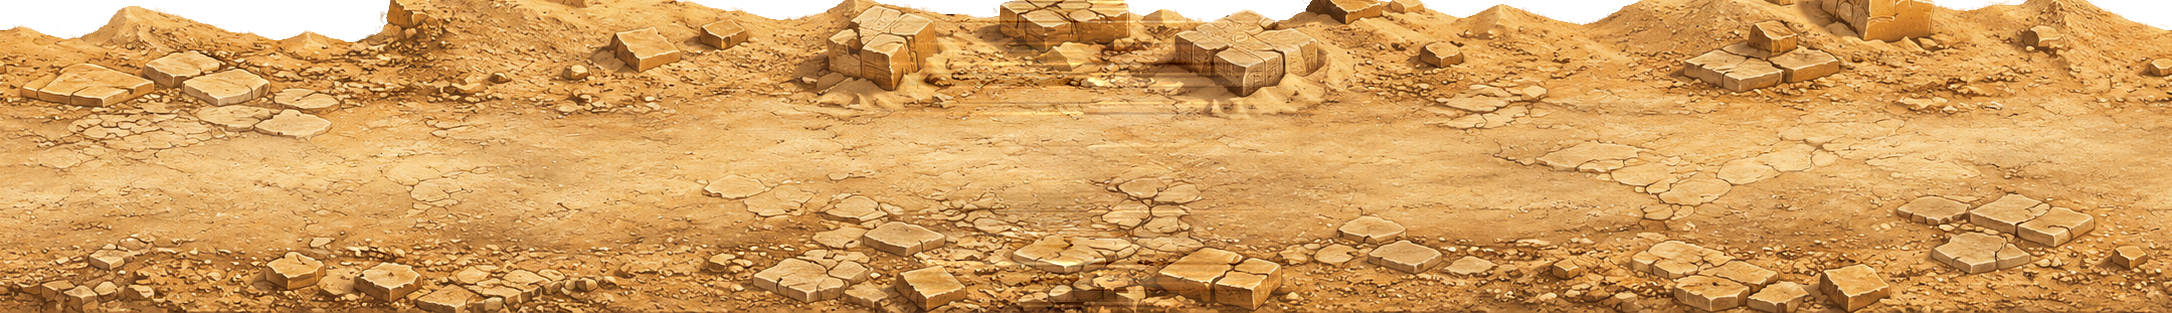
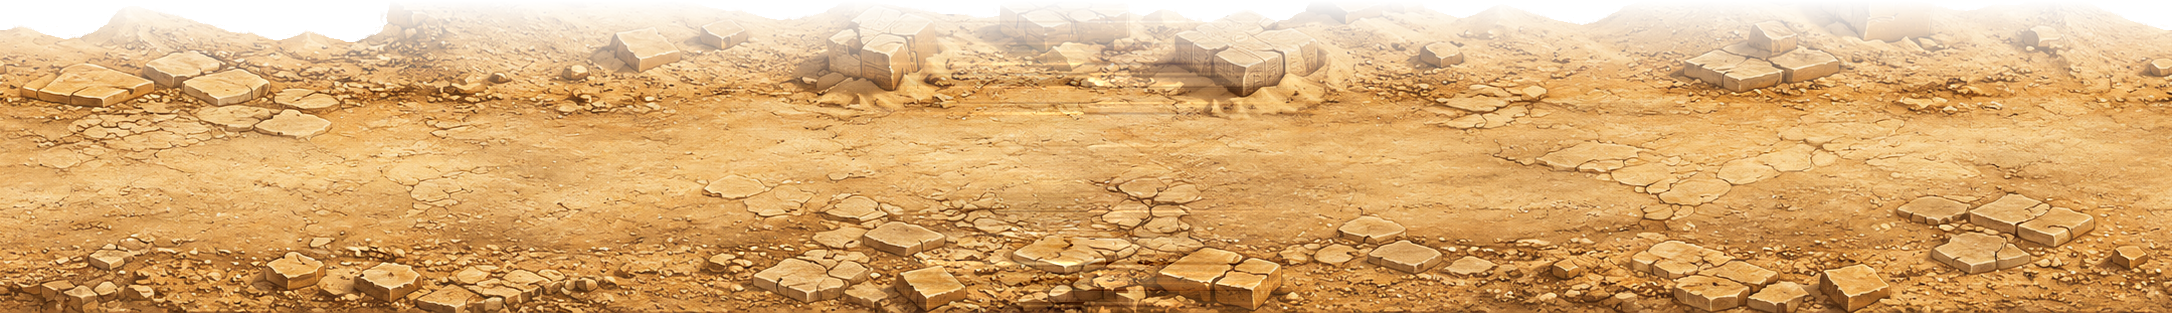
Shorten desert path and feather its top to kill the ledge
Per in-game feedback: raise the path top (DEST_Y 520 -> 545) so the
walkable band is shorter, and feather the top 30% of the path strip to
transparent so it blends up into the midground ruins instead of forming a
hard horizontal shelf edge. Floor-tuning iteration; verify in-game.

Changed region(s): [[0.0, 0.0, 1.0, 0.2875]]

diff --git a/src/components/expedition-journey/useJourneyRenderer.js b/src/components/expedition-journey/useJourneyRenderer.js
@@ -3839,7 +3839,7 @@ const DESERT_GROUND_BACKING_DEST_Y = 600;
 const DESERT_GROUND_BACKING_DEST_HEIGHT = 124;
 const DESERT_GROUND_BACKING_PARALLAX = 0.98;
 const DESERT_GROUND_BACKING_ALPHA = 1;
-const DESERT_GROUND_LANE_DEST_Y = 520;
+const DESERT_GROUND_LANE_DEST_Y = 545;
 const DESERT_GROUND_LANE_DEST_HEIGHT = 105;
 
 export function drawDesertEntryGroundLaneFrame(ctx, section, cameraX, deps) {
